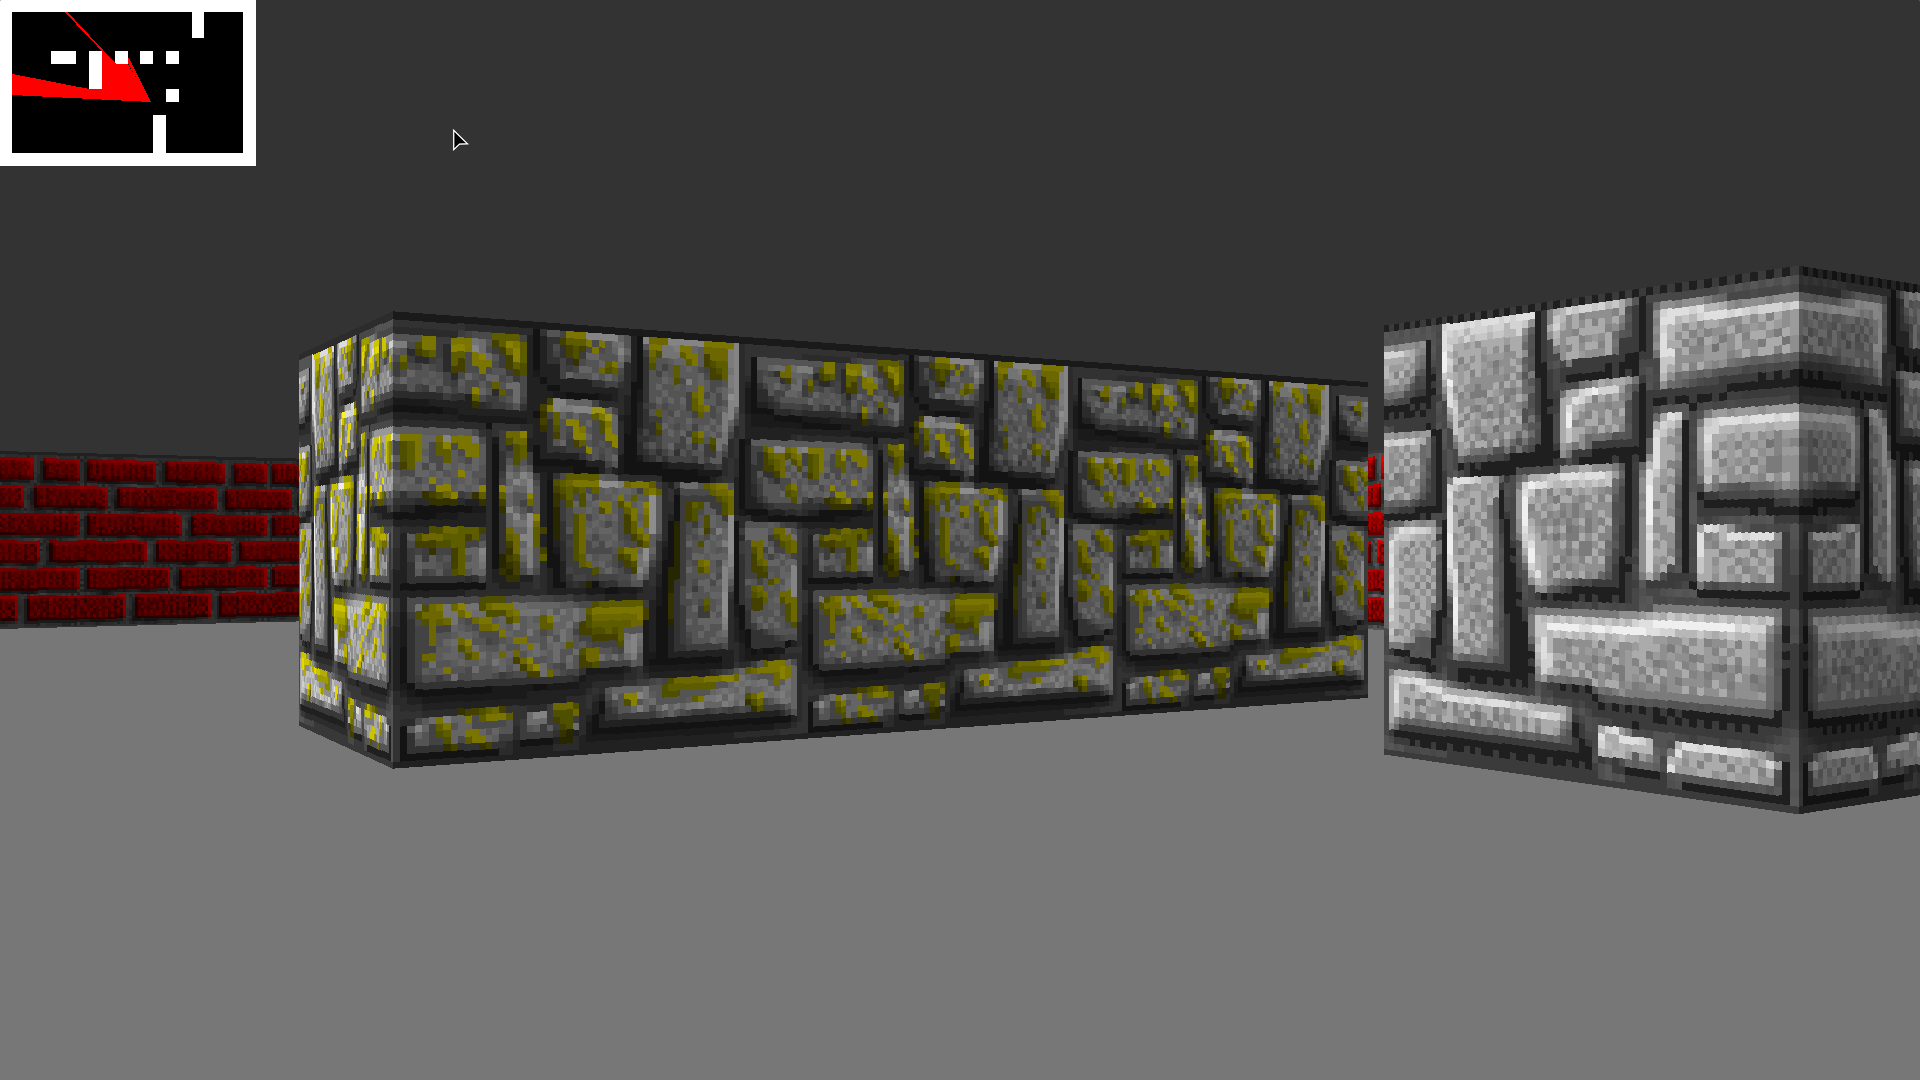
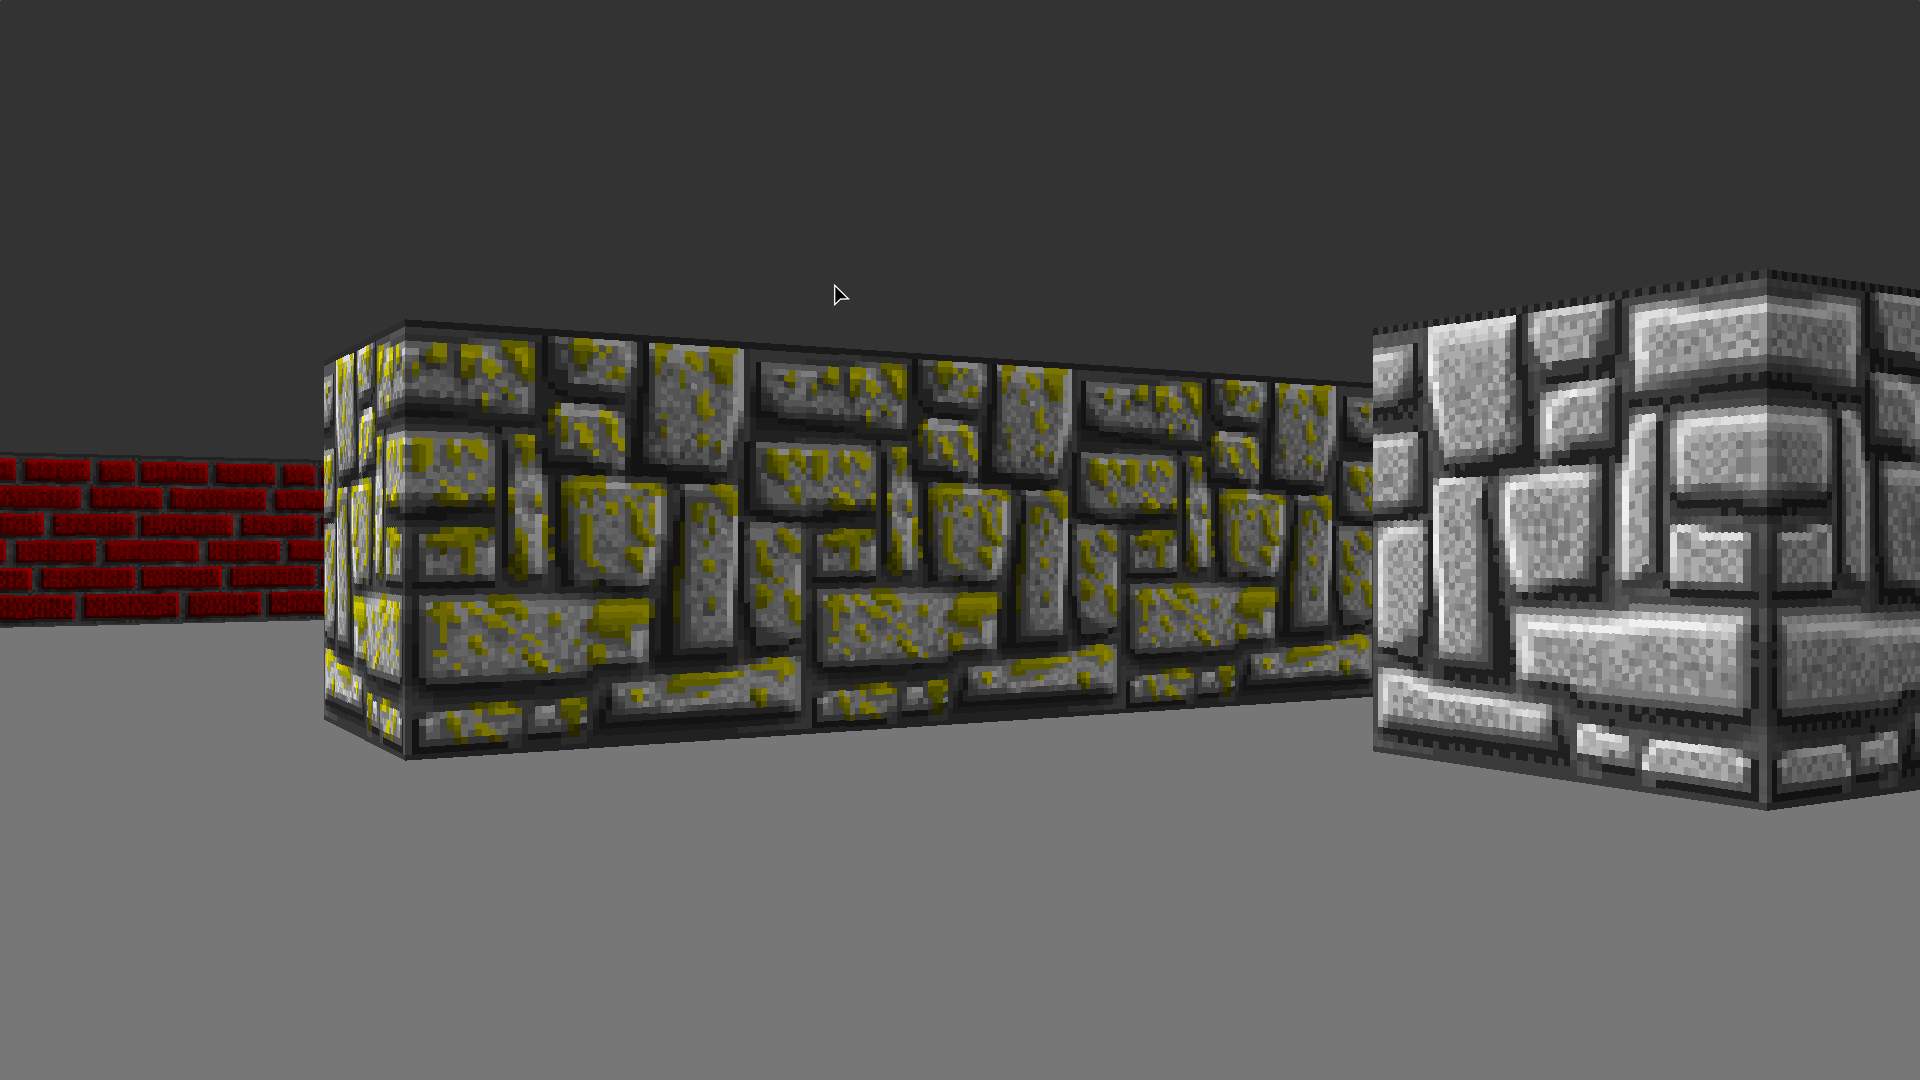
Hide minimap

Changed region(s): [[0.0, 0.2444, 1.0, 0.7639], [0.0, 0.0, 0.1562, 0.1528]]

diff --git a/src/main.c b/src/main.c
@@ -6,7 +6,7 @@
 #include "ray.h"
 #include "textures.h"
 #include "wall.h"
-#include <SDL.h>
+#include "SDL.h"
 #include <stdbool.h>
 #include <stdlib.h>
 
@@ -133,9 +133,9 @@ void render(game_t* game)
     render_wall_projection(game->player);
 
     // Render minimap
-    render_map();
-    render_rays(game->player);
-    render_player(&(game->player));
+    // render_map();
+    // render_rays(game->player);
+    // render_player(&(game->player));
 
     render_colour_buf();
 }
